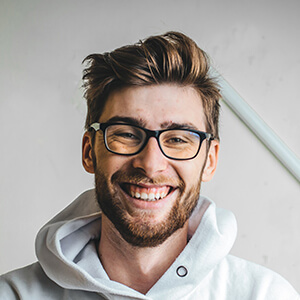
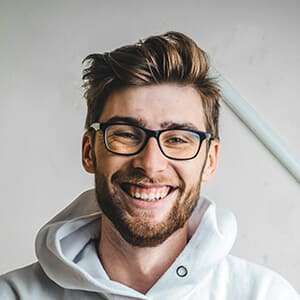
Se optimizaron las imagenes para que pesaran menos
Se hizo una prueba para ver si era posible usar una sola tarjeta para los 4 tipos de reportes, si funciono

Se renombraron las pestañas de cada pagina

Se uso la clase activa de bootstrap para mejora el menu cuando la opcion esta activa

Se corrigieron los defectos que habia mencionado Jhon

diff --git a/ProyectoPrueba/wwwroot/css/style.bundle.css b/ProyectoPrueba/wwwroot/css/style.bundle.css
@@ -60075,8 +60075,8 @@ body {
 
 @media (min-width:992px) {
     :root {
-        --bs-app-header-height: 80px;
-        --bs-app-header-height-actual: 80px
+        --bs-app-header-height: 60px;
+        --bs-app-header-height-actual: 60px
     }
 
     [data-kt-app-header-fixed=true][data-kt-app-header-stacked=true] {
@@ -60085,8 +60085,8 @@ body {
     }
 
     [data-kt-app-header-sticky=on] {
-        --bs-app-header-height: 70px;
-        --bs-app-header-height-actual: 80px
+        --bs-app-header-height: 60px;
+        --bs-app-header-height-actual: 60px
     }
 
     [data-kt-app-header-sticky=on][data-kt-app-header-stacked=true] {
@@ -60095,7 +60095,7 @@ body {
     }
 
     [data-kt-app-header-minimize=on] {
-        --bs-app-header-height: 70px
+        --bs-app-header-height: 60px
     }
 
     .app-header {
